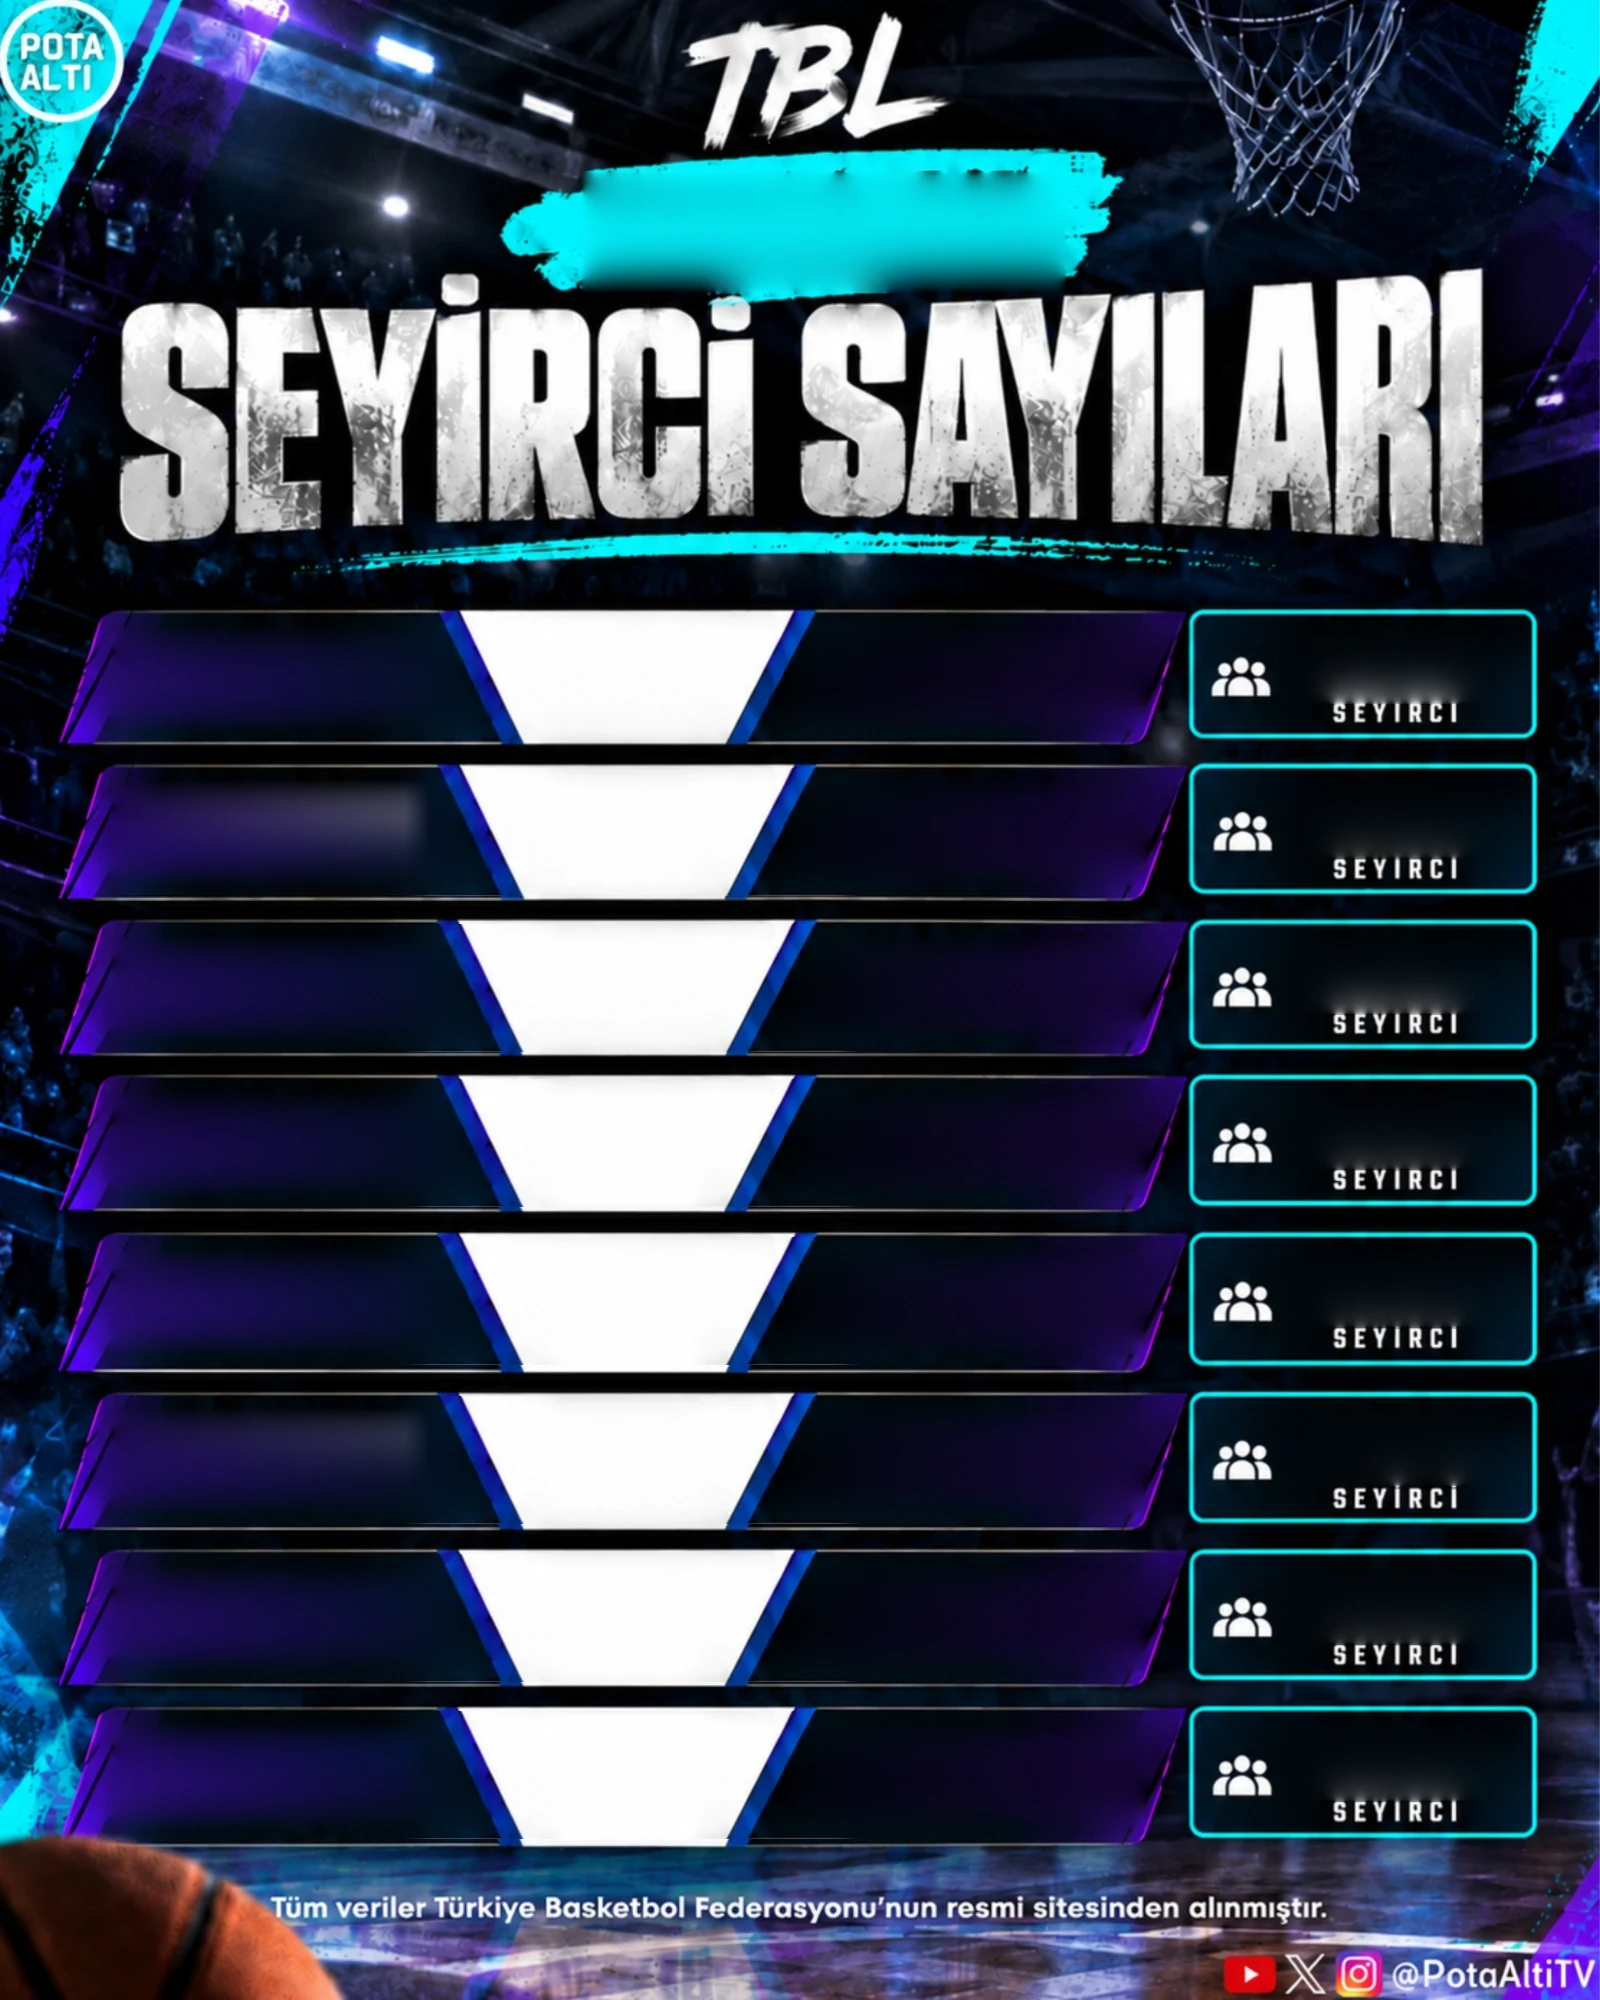
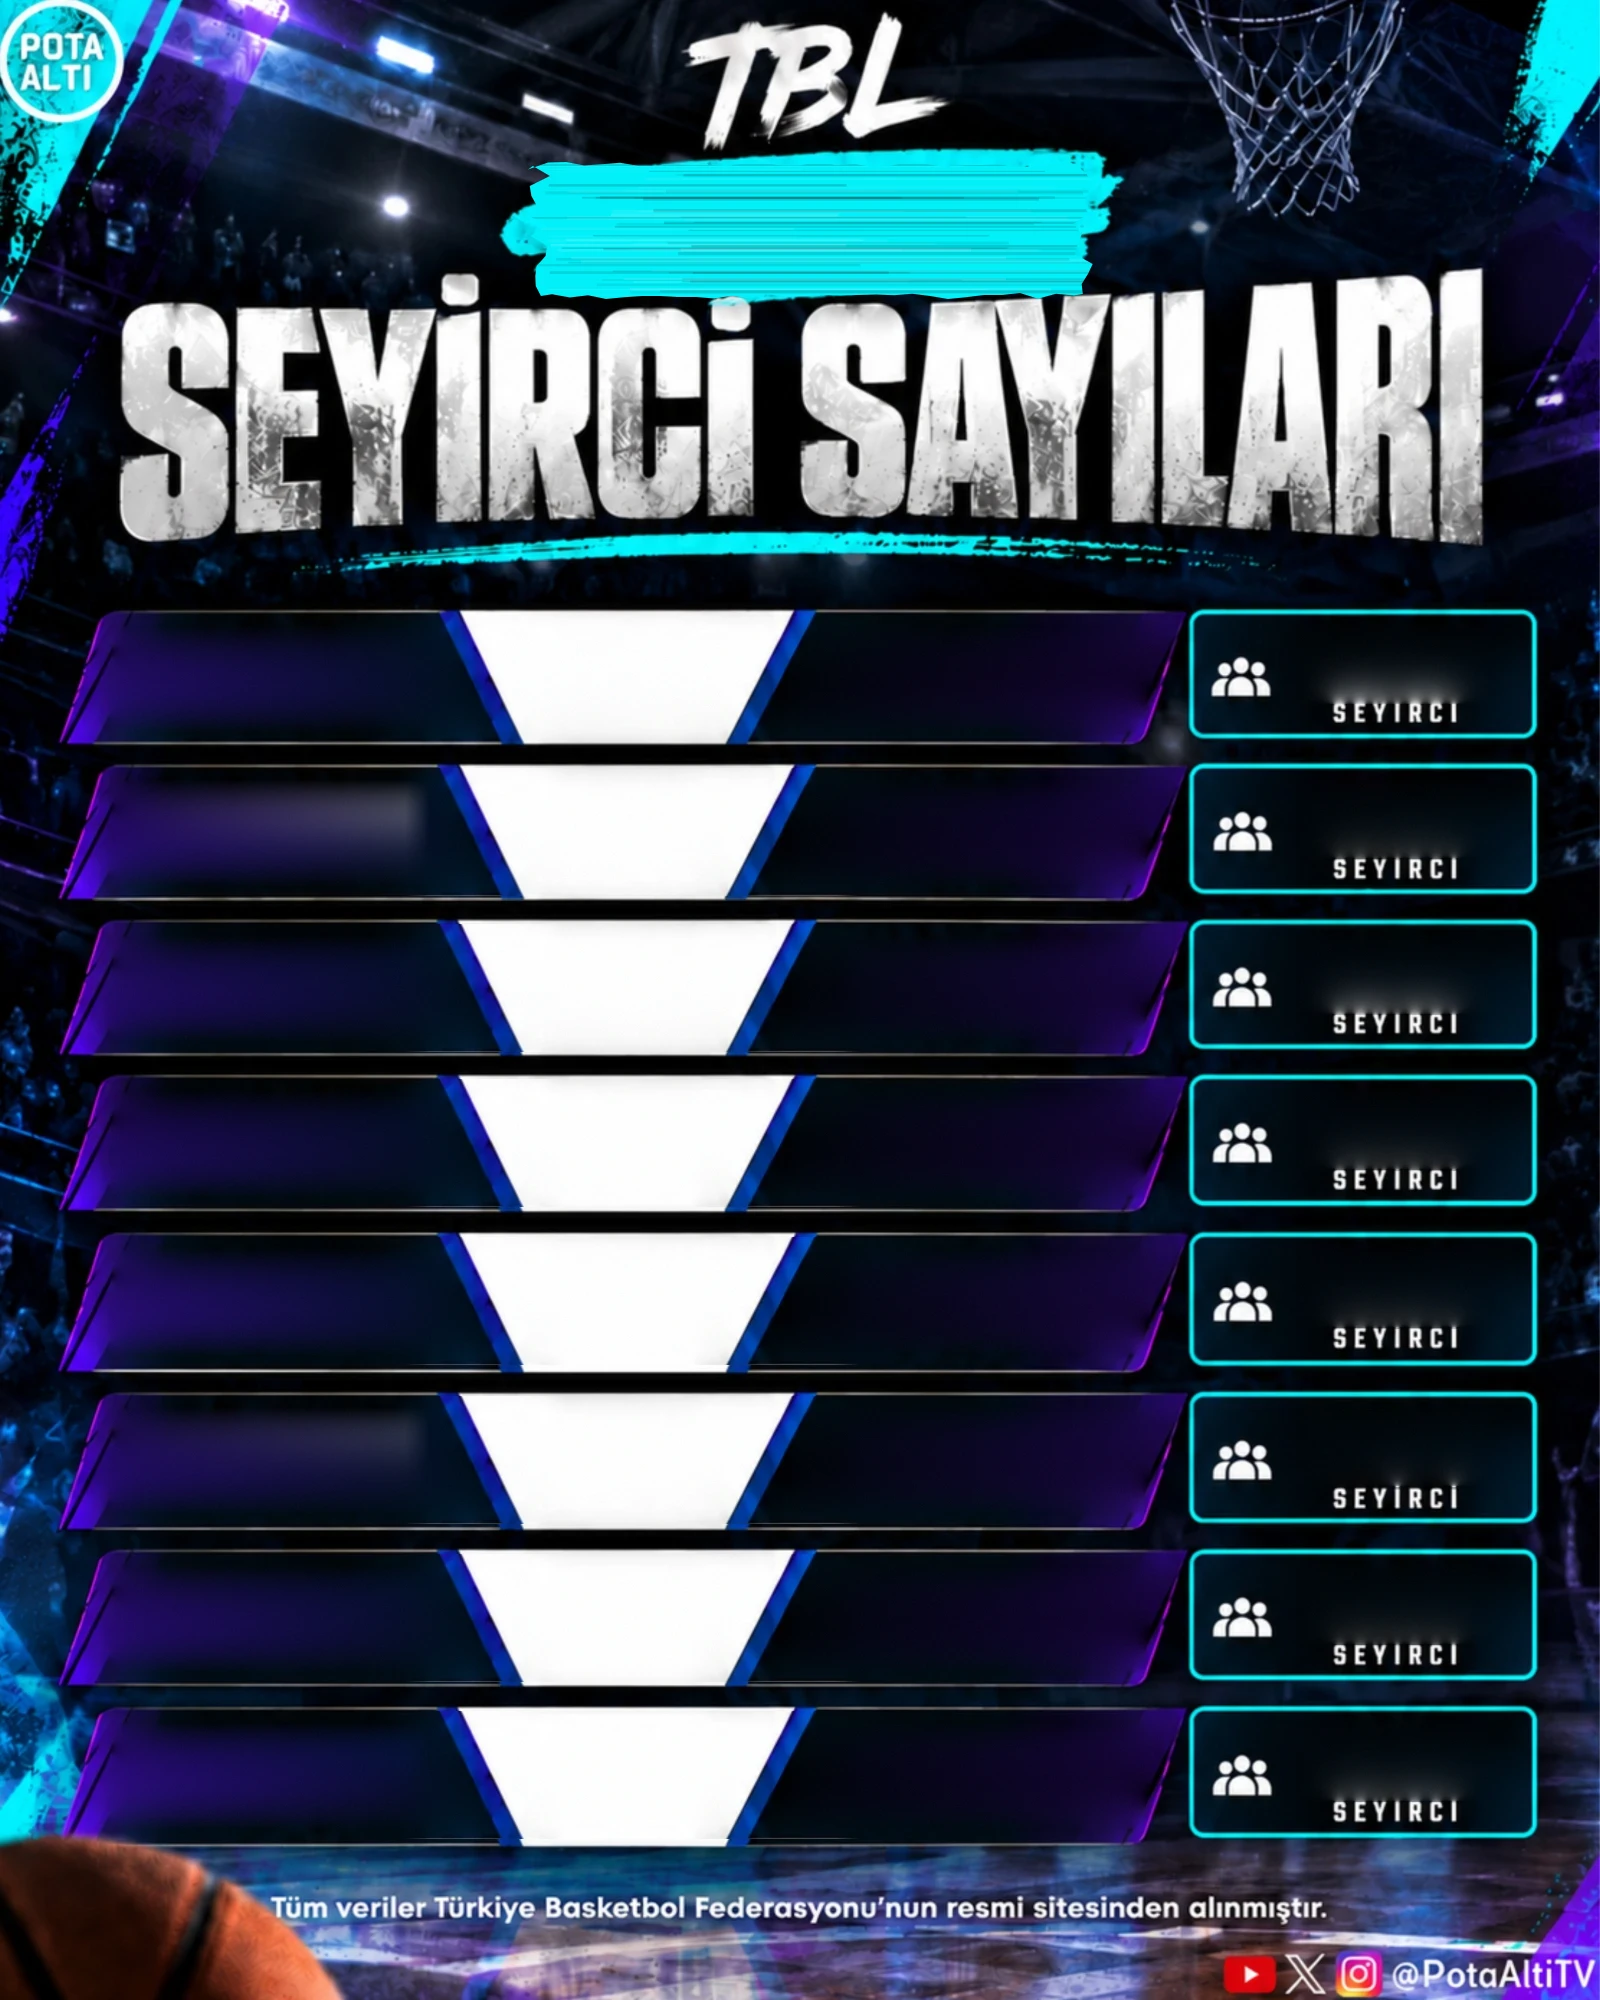
Seyirci görselleri: hafta yazısı temiz fırça bandında, küçültülüp ortalandı (tamamı okunuyor)

Changed region(s): [[0.3125, 0.062, 0.6875, 0.155]]

diff --git a/site/seyirci.js b/site/seyirci.js
@@ -8,10 +8,10 @@ const VURGU = { tbl: '#2fe0ea', bsl: '#a46cff' };
 
 // Haftalık: 8 maç satırı (üst kenarları), takım adları iki satıra kadar, skor beyaz şeritte, sayı sağdaki kutuda
 const HAFTA = { satirlar: [610, 764, 920, 1075, 1233, 1392, 1550, 1707], ev: 290, dep: 985, adGen: 340, tekSatir: 290, skor: 628, sayi: 1396,
-  baslik: { x: 822, y: 284, boy: 92 } };
+  baslik: { x: 811, y: 268, boy: 74 } };
 // Ortalama: 17 satır (BSL şablonunda 16)
 const ORT = { satirlar: [613, 679, 745, 811, 877, 943, 1009, 1075, 1142, 1210, 1279, 1347, 1414, 1482, 1550, 1618, 1688],
-  sira: 165, takim: 262, takimGen: 528, mac: 896, toplam: 1133, ort: 1410, baslik: { x: 808, y: 284, boy: 92 } };
+  sira: 165, takim: 262, takimGen: 528, mac: 896, toplam: 1133, ort: 1410, baslik: { x: 811, y: 270, boy: 74 } };
 
 // Yazı tipi dosyaları stil dosyası yüklendikten sonra tanınır; ondan önce fonts.load boş döner
 let yaziHazir;
@@ -87,7 +87,7 @@ function baslik(g, metin, { x, y, boy }) {
     if (h !== 'İ') return;
     const sol = -w / 2 + g.measureText(duz.slice(0, i)).width, gen = g.measureText('I').width;
     g.beginPath();
-    g.ellipse(sol + gen * 0.62, -boy - px * 0.13, px * 0.085, px * 0.07, -0.3, 0, Math.PI * 2);
+    g.ellipse(sol + gen * 0.98, -boy - px * 0.12, px * 0.085, px * 0.07, -0.3, 0, Math.PI * 2);
     g.fill();
   });
   g.restore();
